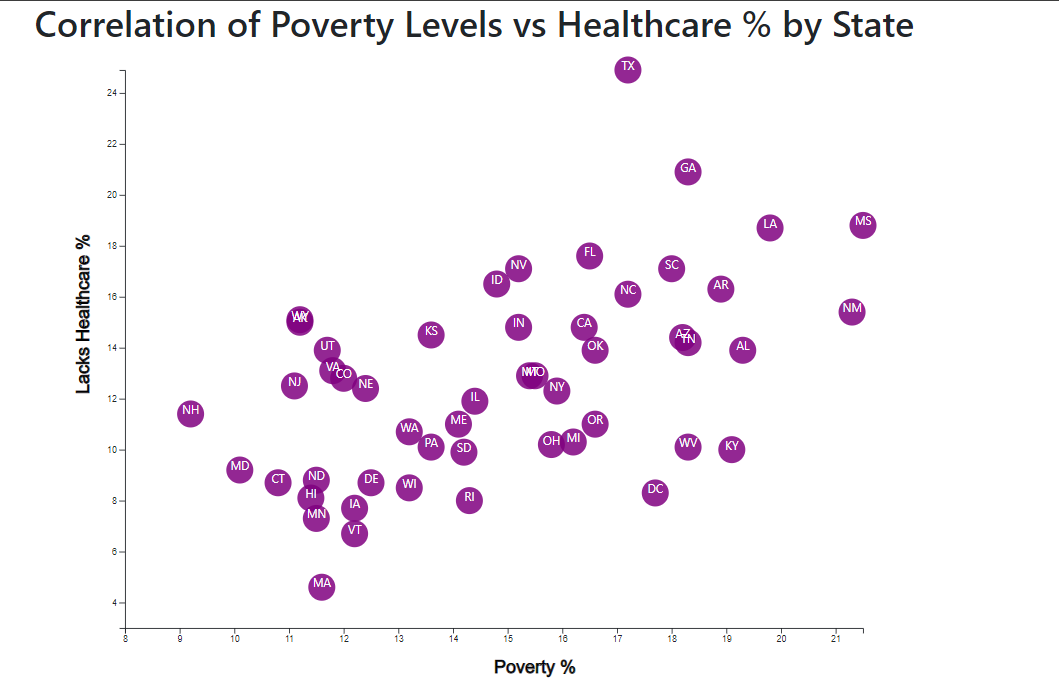
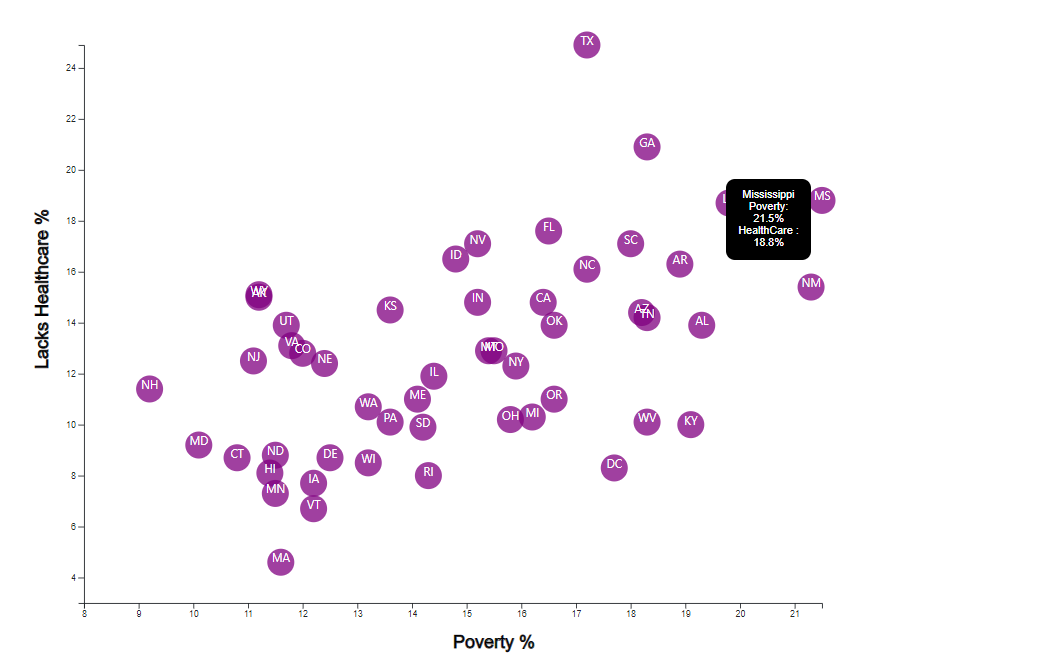
Update to Part 1

diff --git a/README.md b/README.md
@@ -1,1 +1,10 @@
-# D3 Homework - Data Journalism and D3
+# Data Journalism and D3
+
+In this project, we utilized the D3 JScript library and plotted our specific data file using a scalable vector graphic to display our scatter plot.
+
+Included in this graph are specific tool tips that populate the Poverty % level and Lacks Healthcare % of each specific state in the United States.  
+
+Below is a screenshot:
+
+![Screenshot1](assets/data/screen1.png)
+
